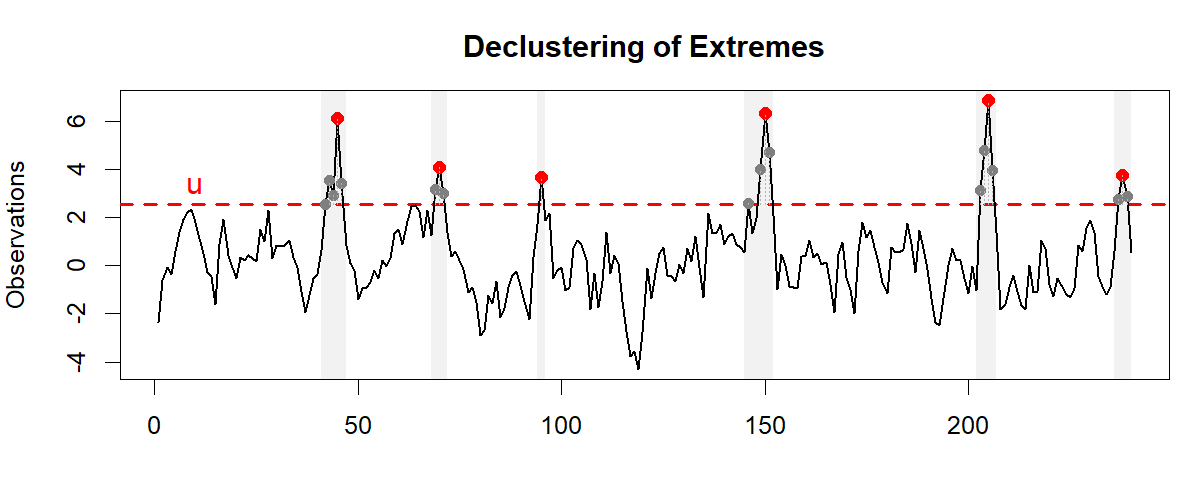
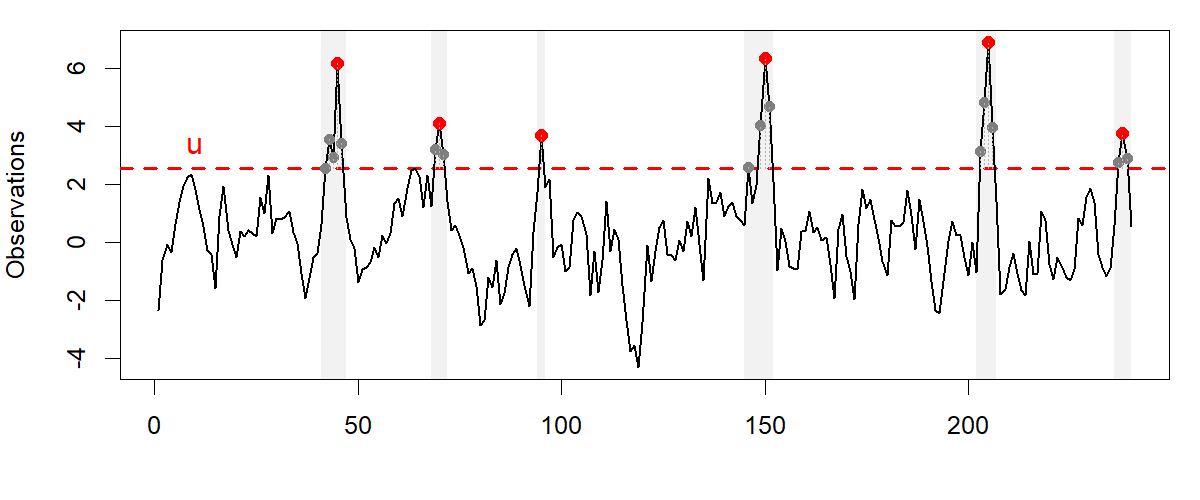
merged slide on declustering

diff --git a/slides/mtp_shbk.tex b/slides/mtp_shbk.tex
@@ -168,14 +168,11 @@
 \end{frame}
 
 
-\begin{frame}{Bias and Second-Order Conditions}
-    There exists a function $A(t) \to 0$ and $\rho \leq 0$ such that:
-    \[
-    \lim_{t \to \infty} \frac{\frac{\bar{F}(tx)}{\bar{F}(t)} - x^{-1/\xi}}{A(t)} = x^{-1/\xi} \frac{x^\rho - 1}{\rho}
-    \] \pause
+ \begin{frame}{Bias and Second-Order Conditions}
+    Under certain (second order) conditions on the tail of the distribution, Hill's estimator is asymptotically normal but biased:
 
     \begin{block}{Asymptotic Normality with Bias}
-        If $\lim_{n \to \infty} \sqrt{k} A(n/k) = \lambda$, the Hill estimator is biased:
+        For $\rho \leq 0$ and $\lambda$ a finite constant:
         \[
         \sqrt{k} \left( \hat{\xi}_H - \xi \right) \xrightarrow{d} N\left( \frac{\lambda}{1-\rho}, \frac{1}{\xi^2} \right)
         \]
@@ -272,30 +269,20 @@
 \end{frame}
 
 \begin{frame}{Threshold Exceedances and Declustering}
-    Under dependence, exceedances over a threshold $u$ are typically modelled using \alert{runs declustering}:
+    Under dependence, exceedances over a threshold $u$ are typically modelled using \alert{declustering}:
 
     \begin{enumerate}
-        \item Identify clusters as the $r$ consecutive exceedances with no interruption. \pause
+        \item Identify \alert{clusters} of extremes (\alert{How?}) \pause
         \item Retain only the \alert{maximum} of each cluster. \pause
         \item Fit the GPD to these cluster maxima (assumed independent). \pause
     \end{enumerate}
 
-    \textbf{Drawbacks:}
-
-    \begin{itemize}
-        \item \alert{Data Wastage}.
-        \item \alert{Sensitivity}.
-    \end{itemize}
+    \begin{figure}
+        \centering
+        \includegraphics[width=\textwidth]{figures/declustering.png}
+    \end{figure}
 
 \end{frame}
-
-\begin{frame}{Declustering}
-	\begin{figure}
-		\centering
-		\includegraphics[width=\textwidth]{figures/declustering.png}
-	\end{figure}
-\end{frame}
-
 % ==========================================
 % SECTION 3: COPULA MARKOV MODELS
 % ==========================================